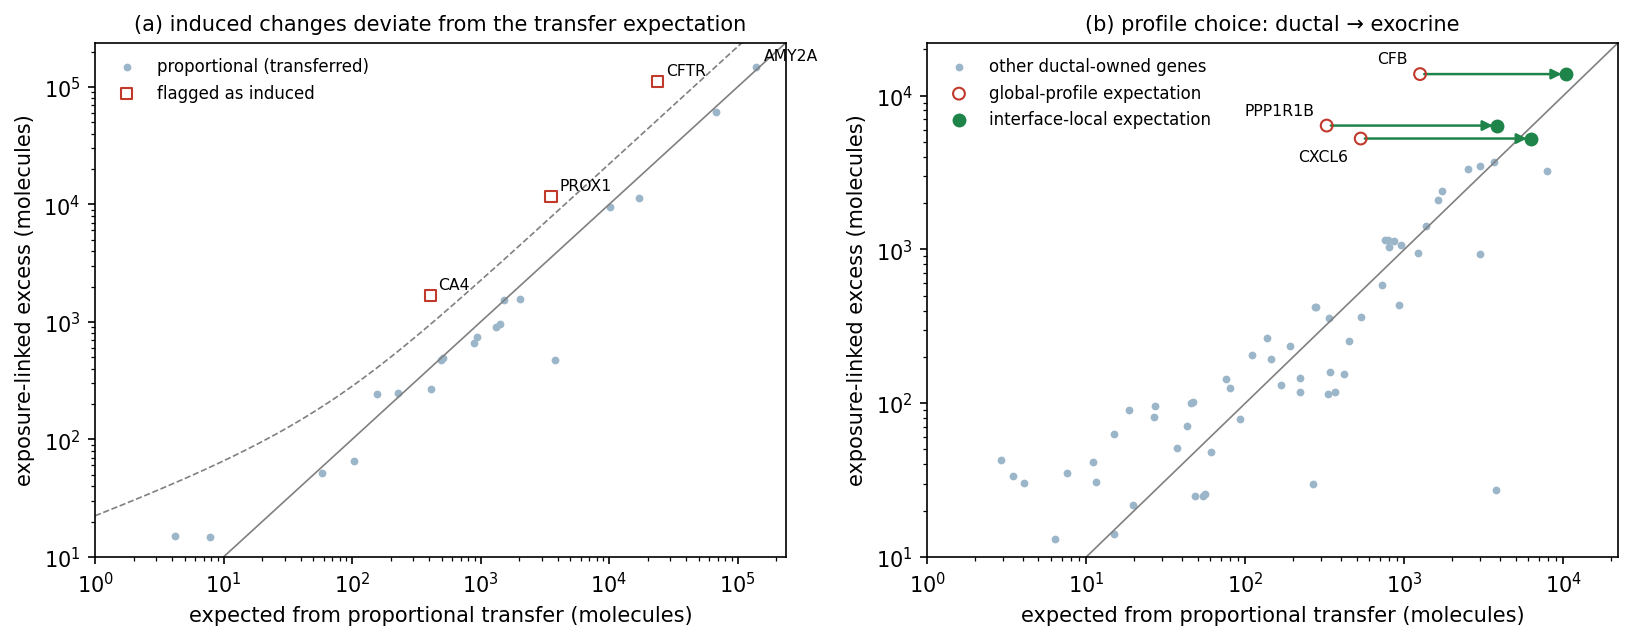
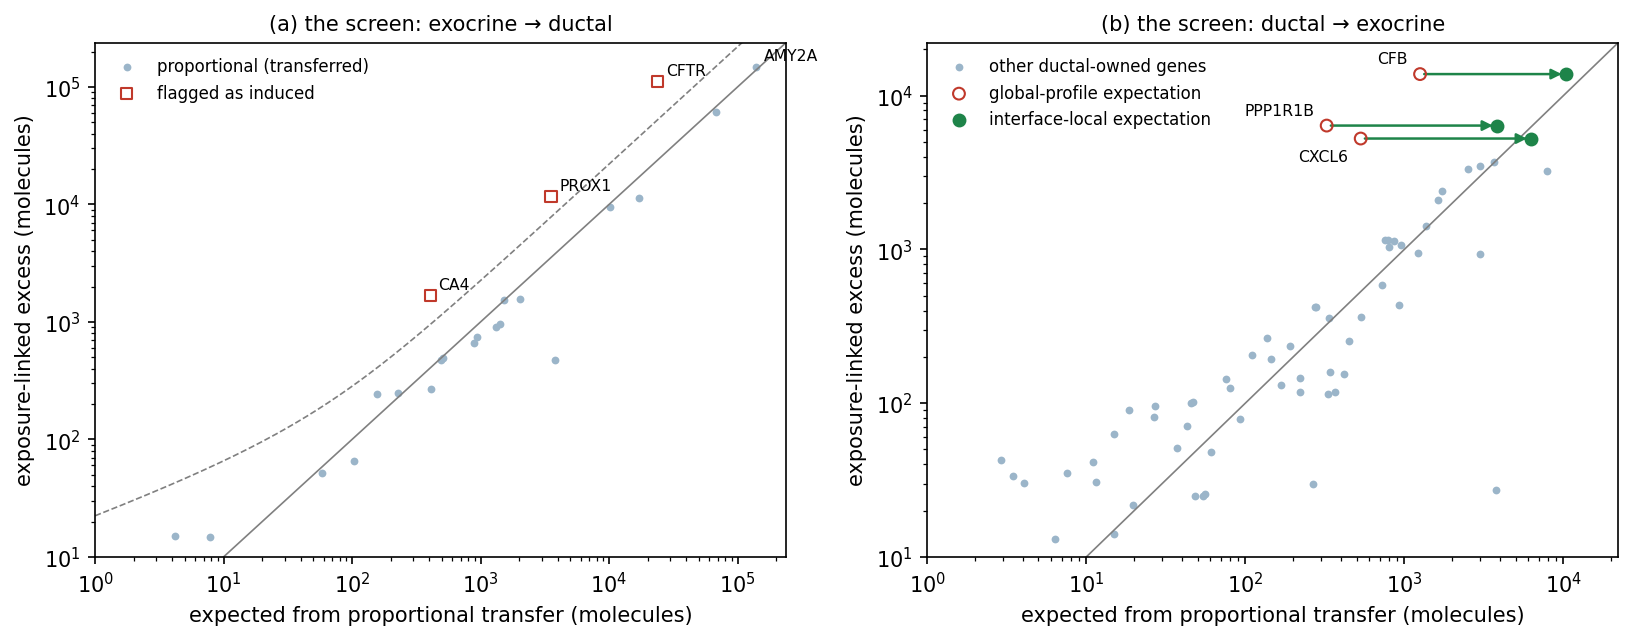
Directional panel titles; caption lead-in and plain bound wording

Changed region(s): [[0.0625, 0.0312, 0.4685, 0.0625], [0.6558, 0.0312, 0.9057, 0.0625]]

diff --git a/analysis/generative_model/05_figure.py b/analysis/generative_model/05_figure.py
@@ -255,8 +255,7 @@ for gname in ["CFTR", "PROX1", "CA4", "AMY2A", "CELA2A"]:
                  xytext=(4, 3), textcoords="offset points")
 axa.set_xlabel("expected from proportional transfer (molecules)")
 axa.set_ylabel("exposure-linked excess (molecules)")
-axa.set_title("(a) induced changes deviate from the transfer expectation",
-              fontsize=10)
+axa.set_title("(a) the screen: exocrine → ductal", fontsize=10)
 axa.legend(frameon=False, fontsize=8, loc="upper left")
 
 # (b) the same test for ductal -> exocrine under the global versus the
@@ -297,7 +296,7 @@ axb.set_xscale("log"); axb.set_yscale("log")
 axb.set_xlim(limb); axb.set_ylim([10, limb[1]])
 axb.set_xlabel("expected from proportional transfer (molecules)")
 axb.set_ylabel("exposure-linked excess (molecules)")
-axb.set_title("(b) profile choice: ductal → exocrine", fontsize=10)
+axb.set_title("(b) the screen: ductal → exocrine", fontsize=10)
 axb.legend(frameon=False, fontsize=8, loc="upper left")
 
 fig2.tight_layout()

diff --git a/docs/generative.md b/docs/generative.md
@@ -125,9 +125,13 @@ line up on the diagonal across three orders of magnitude — AMY2A, the
 largest channel, sits exactly on it — while CFTR, PROX1 and CA4 carry
 several times more excess than transfer can deliver, and are flagged.
 
-Figure 2b shows, on the reverse pair (ductal cells the source, exocrine
-cells the target), why the transfer expectation must come from the
-bordering source cells. The grey points are all ductal-owned genes with
+Figure 2b asks the same question for the reverse admixture direction:
+ductal cells are now the source, exocrine cells the targets, and the
+plot shows the excess of ductal-owned genes found in exocrine cells —
+are the CXCL6, CFB and PPP1R1B molecules appearing in exocrine cells
+near ductal tissue induced in the exocrine cells, or transferred from
+the ductal cells? The answer depends on which ductal cells define the
+transfer expectation. The grey points are all ductal-owned genes with
 the expectation computed from the bordering ductal cells — these are
 the data the proportional fit is made from, and they line up on the
 diagonal. The activation genes CXCL6, CFB and PPP1R1B are drawn twice:
@@ -148,18 +152,18 @@ computed from the cells the material actually comes from.
 
 ![Figure 2](figures/generative_fig2.png)
 
-**Figure 2. What the screen compares.** **(a)** Each point is one
+**Figure 2. What the screen compares.** **(a)** *Induced changes
+deviate from the transfer expectation.* Each point is one
 exocrine-owned gene in the exocrine → ductal pair: measured excess in
 ductal cells (vertical) against the excess that proportional transfer
 would deliver given the gene's share of the interface-local exocrine
 profile (horizontal). The diagonal means "fully accounted for by
-transfer"; the dashed curve is the screen's significance bound — a
-deviation of eight standard deviations, combining counting noise with
-the 15% profile uncertainty — and the red squares above it are the
-genes flagged as induced. No corresponding lower bound exists: with a
-15% profile uncertainty, eight standard deviations always exceed the
-expectation itself, so a shortfall can never reach the flagging
-significance and the screen acts only on excess. **(b)** The
+transfer"; the dashed curve marks the largest excess still consistent
+with proportional transfer, allowing counting noise and a 15% error in
+the profile itself, with a wide safety margin — the red squares above
+it are the genes flagged as induced. No corresponding lower bound
+exists: at this margin the allowance exceeds the expectation itself, so
+a shortfall can never be flagged and the screen acts only on excess. **(b)** The
 reverse pair, ductal → exocrine, same axes. Grey: all ductal-owned
 genes under the expectation from the bordering ductal cells — the data
 the proportional fit is made from. CXCL6, CFB and PPP1R1B appear twice,
